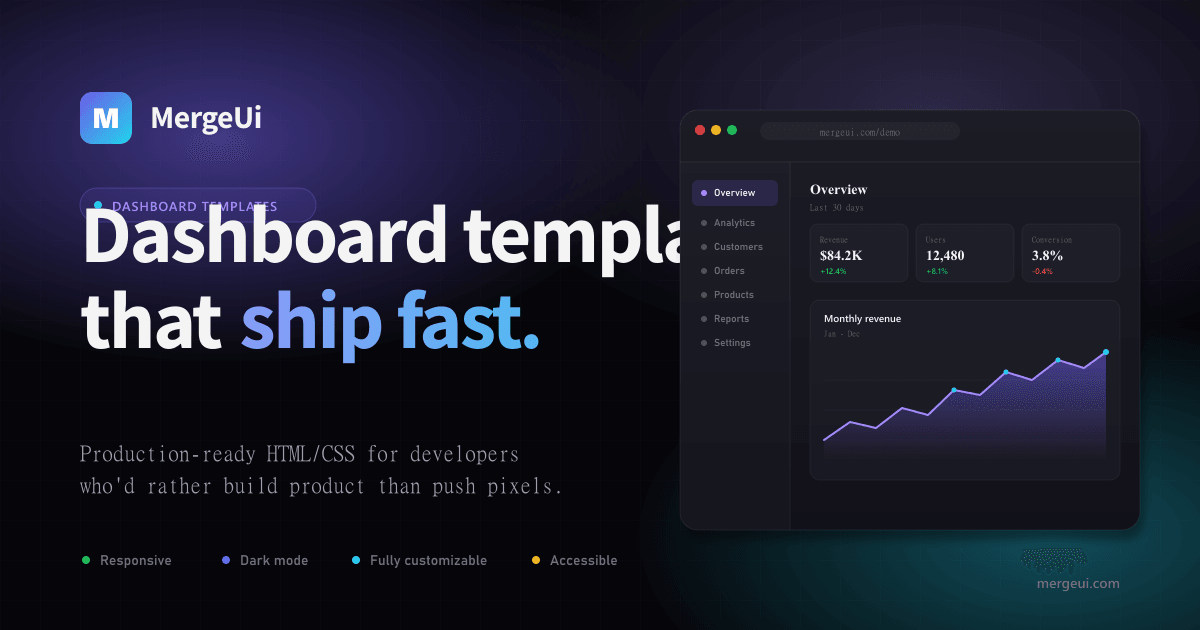
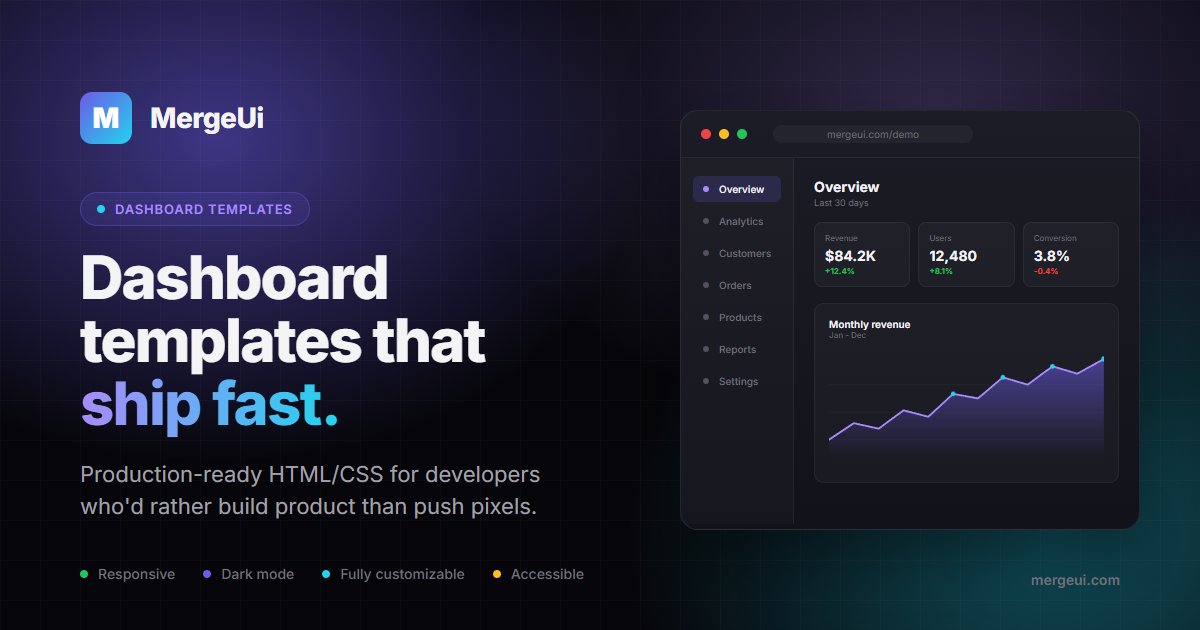
landing: og-image headline overlap fix + M-01 마킹 완료
og-image.html 헤드라인이 대시보드 목업과 겹치는 품질 이슈 수정. 폰트 60px·3줄 레이아웃('Dashboard / templates that / ship fast.')으로 재구성 후 Playwright MCP로 1200x630 PNG 재export.

master-todo.md M-01 og:image 항목 ✅ 완료 (2026-05-03) 마킹.

diff --git a/landing/assets/og-image.html b/landing/assets/og-image.html
@@ -90,7 +90,7 @@
     display: flex;
     align-items: center;
     gap: 18px;
-    margin-bottom: 64px;
+    margin-bottom: 48px;
   }
   .logo-mark {
     width: 52px; height: 52px;
@@ -122,7 +122,7 @@
     font-weight: 600;
     letter-spacing: 0.8px;
     color: var(--merge-accent2);
-    margin-bottom: 28px;
+    margin-bottom: 20px;
   }
   .badge::before {
     content: "";
@@ -132,12 +132,12 @@
   }
 
   .headline {
-    font-size: 72px;
+    font-size: 60px;
     line-height: 1.05;
     font-weight: 800;
-    letter-spacing: -2.4px;
+    letter-spacing: -1.8px;
     color: var(--merge-text-primary);
-    margin-bottom: 28px;
+    margin-bottom: 24px;
   }
   .headline .gradient-text {
     background: linear-gradient(90deg, var(--merge-accent2), var(--merge-accent));
@@ -352,8 +352,9 @@
       <div class="badge">DASHBOARD TEMPLATES</div>
 
       <h1 class="headline">
-        Dashboard templates<br>
-        that <span class="gradient-text">ship fast.</span>
+        Dashboard<br>
+        templates that<br>
+        <span class="gradient-text">ship fast.</span>
       </h1>
 
       <p class="subhead">

diff --git a/docs/plans/master-todo.md b/docs/plans/master-todo.md
@@ -258,7 +258,7 @@
 
 | # | 항목 | 현재 상태 | 리스크 발생 시 | 담당 | 비고 |
 |---|------|----------|--------------|------|------|
-| M-01 | og:image 파일 없음 | ⏳ SVG 완료, PNG 변환 필요 | 소셜 공유 시 깨진 이미지 | B(완료)→C | 2026-04-19 B가 1200x630 SVG + HTML 목업 작성, landing/index.html 메타태그 교체 완료. 카카오톡/일부 메일 클라이언트 대응 위해 C가 Playwright로 PNG export 필요 |
+| M-01 | og:image 파일 | ✅ 완료 (2026-05-03) | - | B→C | 2026-04-19 B가 1200x630 SVG + HTML 목업 작성, sharp 변환 PNG 1차 적용. 2026-05-03 헤드라인이 대시보드 목업과 겹치는 품질 이슈 발견 → 폰트 60px·3줄 레이아웃(`Dashboard / templates that / ship fast.`)으로 og-image.html 수정 후 Playwright MCP로 1200x630 PNG 재export. landing/index.html, pages/public/about.html, pages/public/pricing.html 모두 적용됨 |
 | M-02 | 연간 가격 토글 + 가격 정책 반영 | ✅ 완료 (2026-04-21) | - | C | Team 카드·FAQ·비교 테이블 제거, Monthly($19)/Annual($99 얼리버드 50명 한정, 정가 $149) 토글 구현, 얼리버드 배너 추가. Lemonsqueezy 상품은 캡틴이 연간 2개(정가/얼리버드) 생성 후 URL 교체 필요 |
 | M-03 | JSON-LD 구조화 데이터 미추가 | ❌ 미착수 | 구글 리치 스니펫 미확보 | C | Product + FAQ 스키마 |
 | M-04 | robots.txt AI 크롤러 미설정 | ❌ 미착수 | AI 검색(ChatGPT, Perplexity) 노출 불가 | C+D | GPTBot/ClaudeBot/PerplexityBot 허용 |
